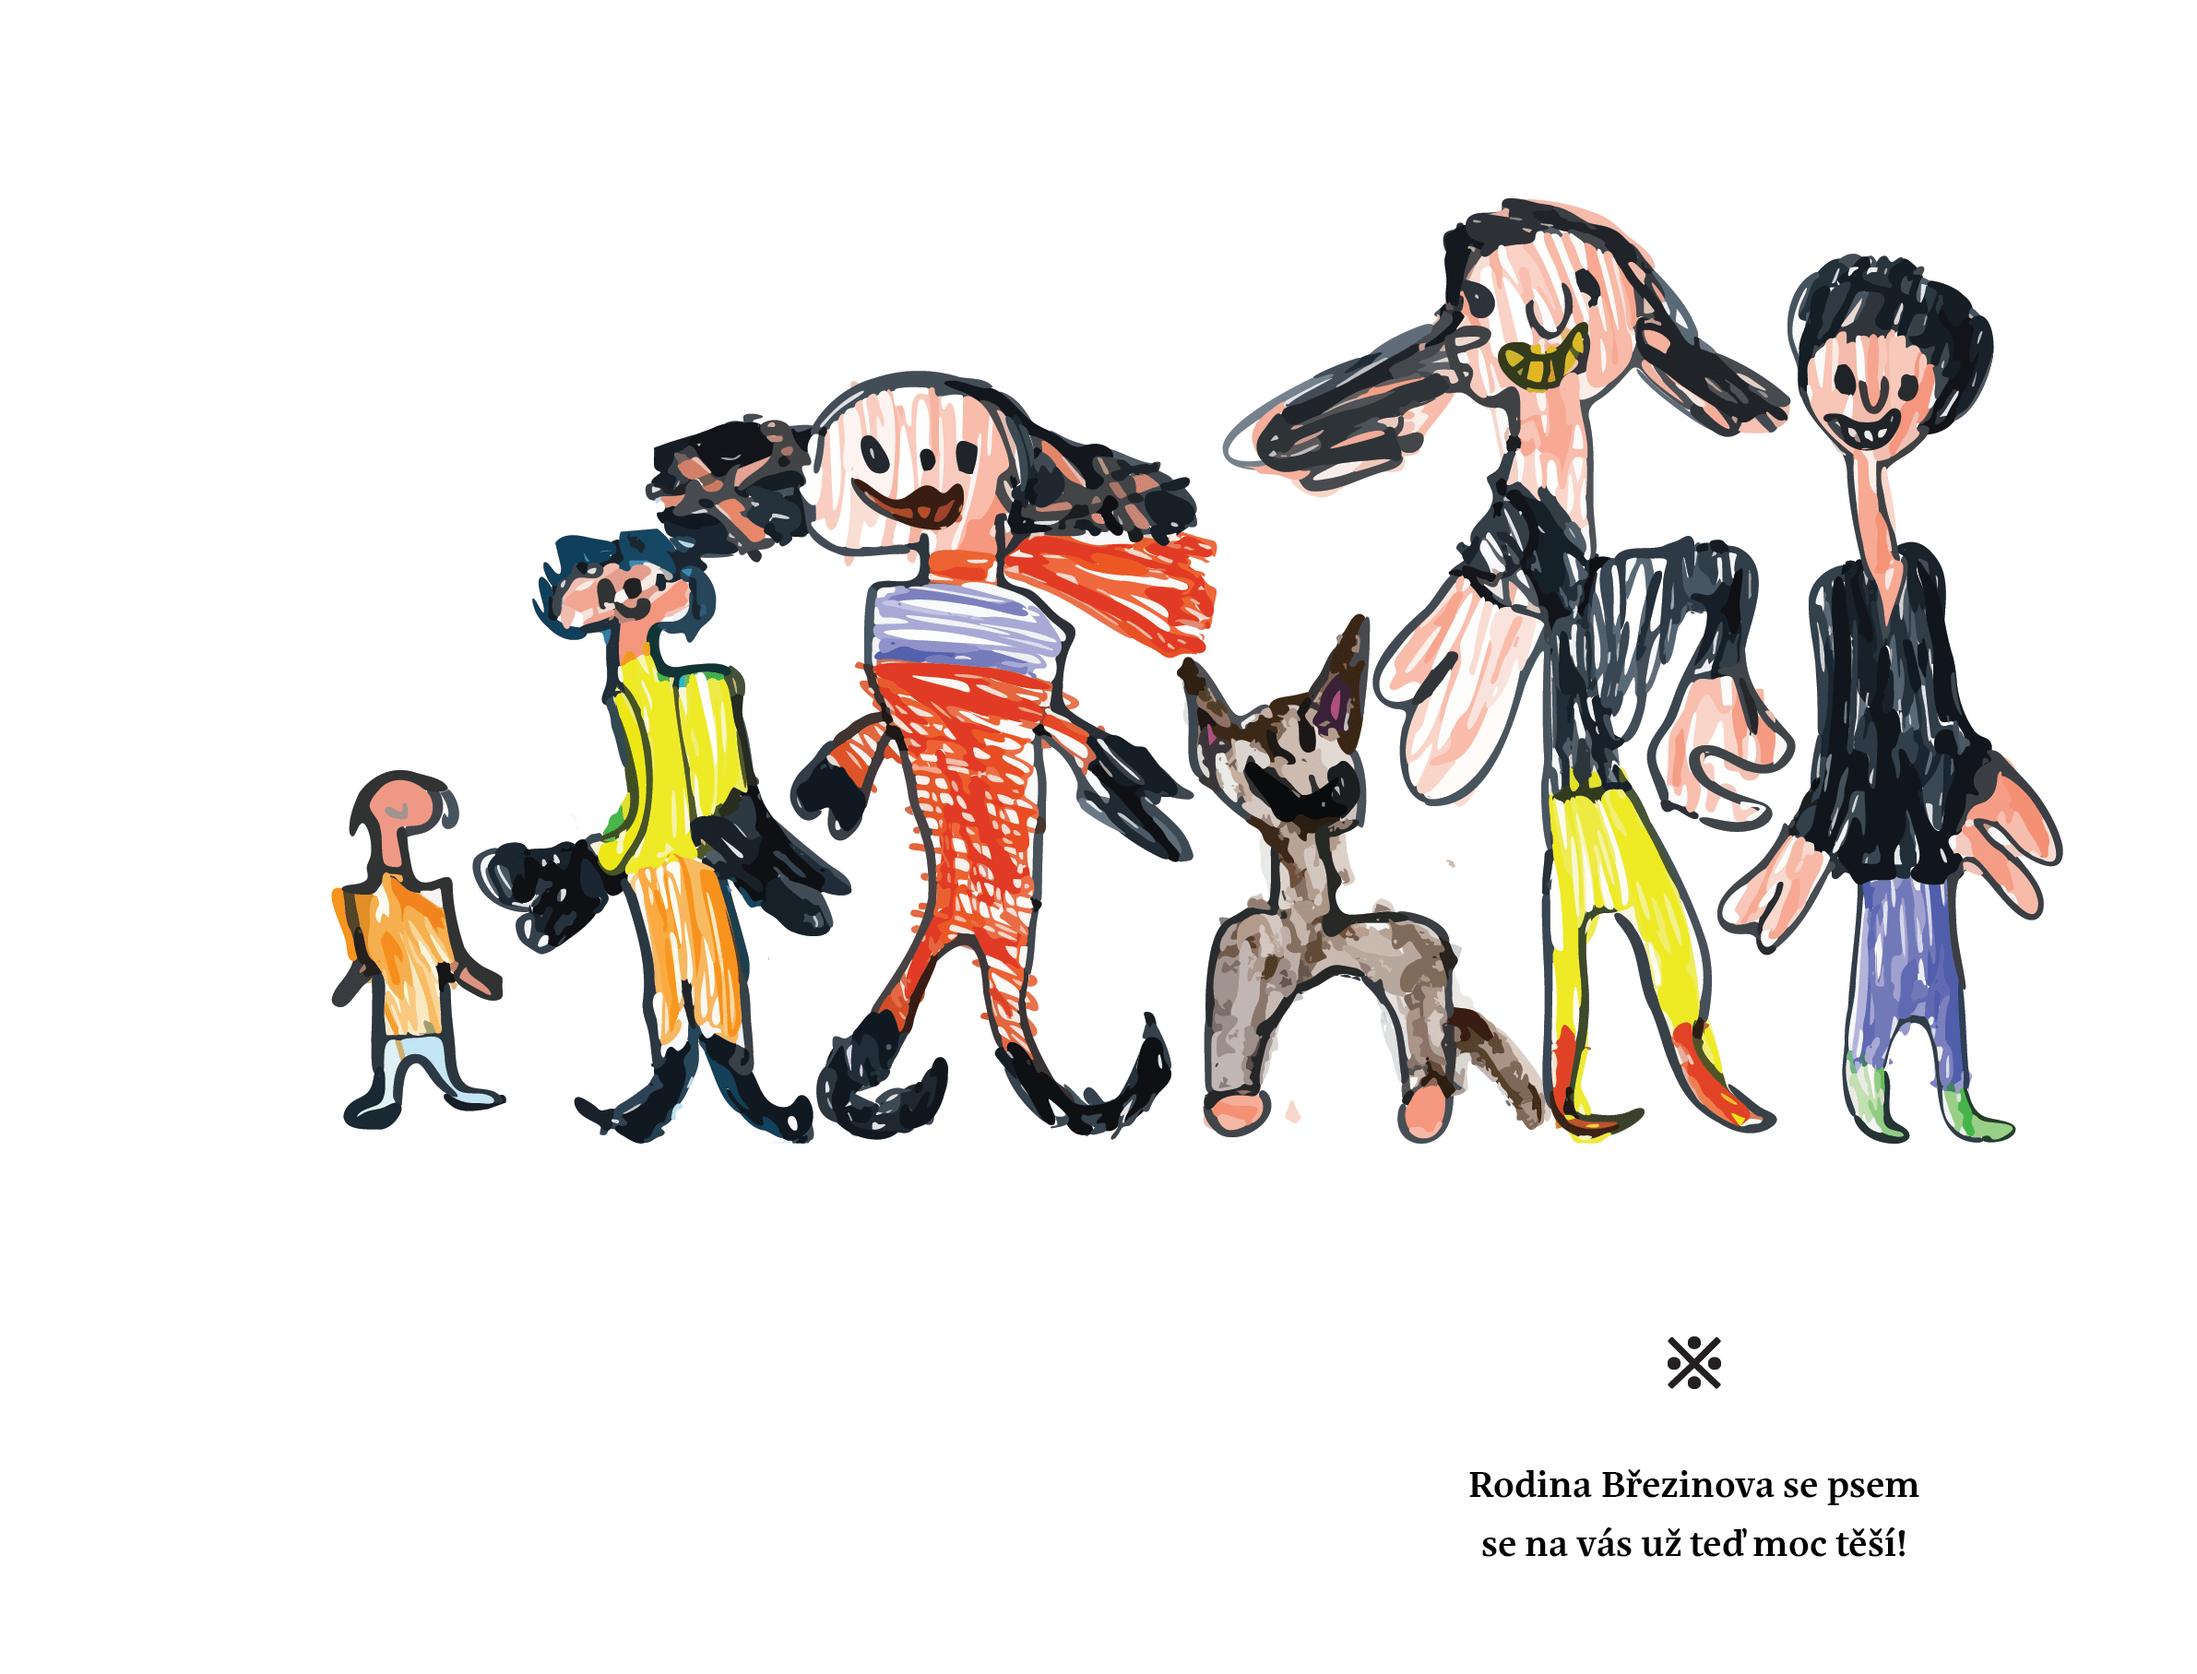
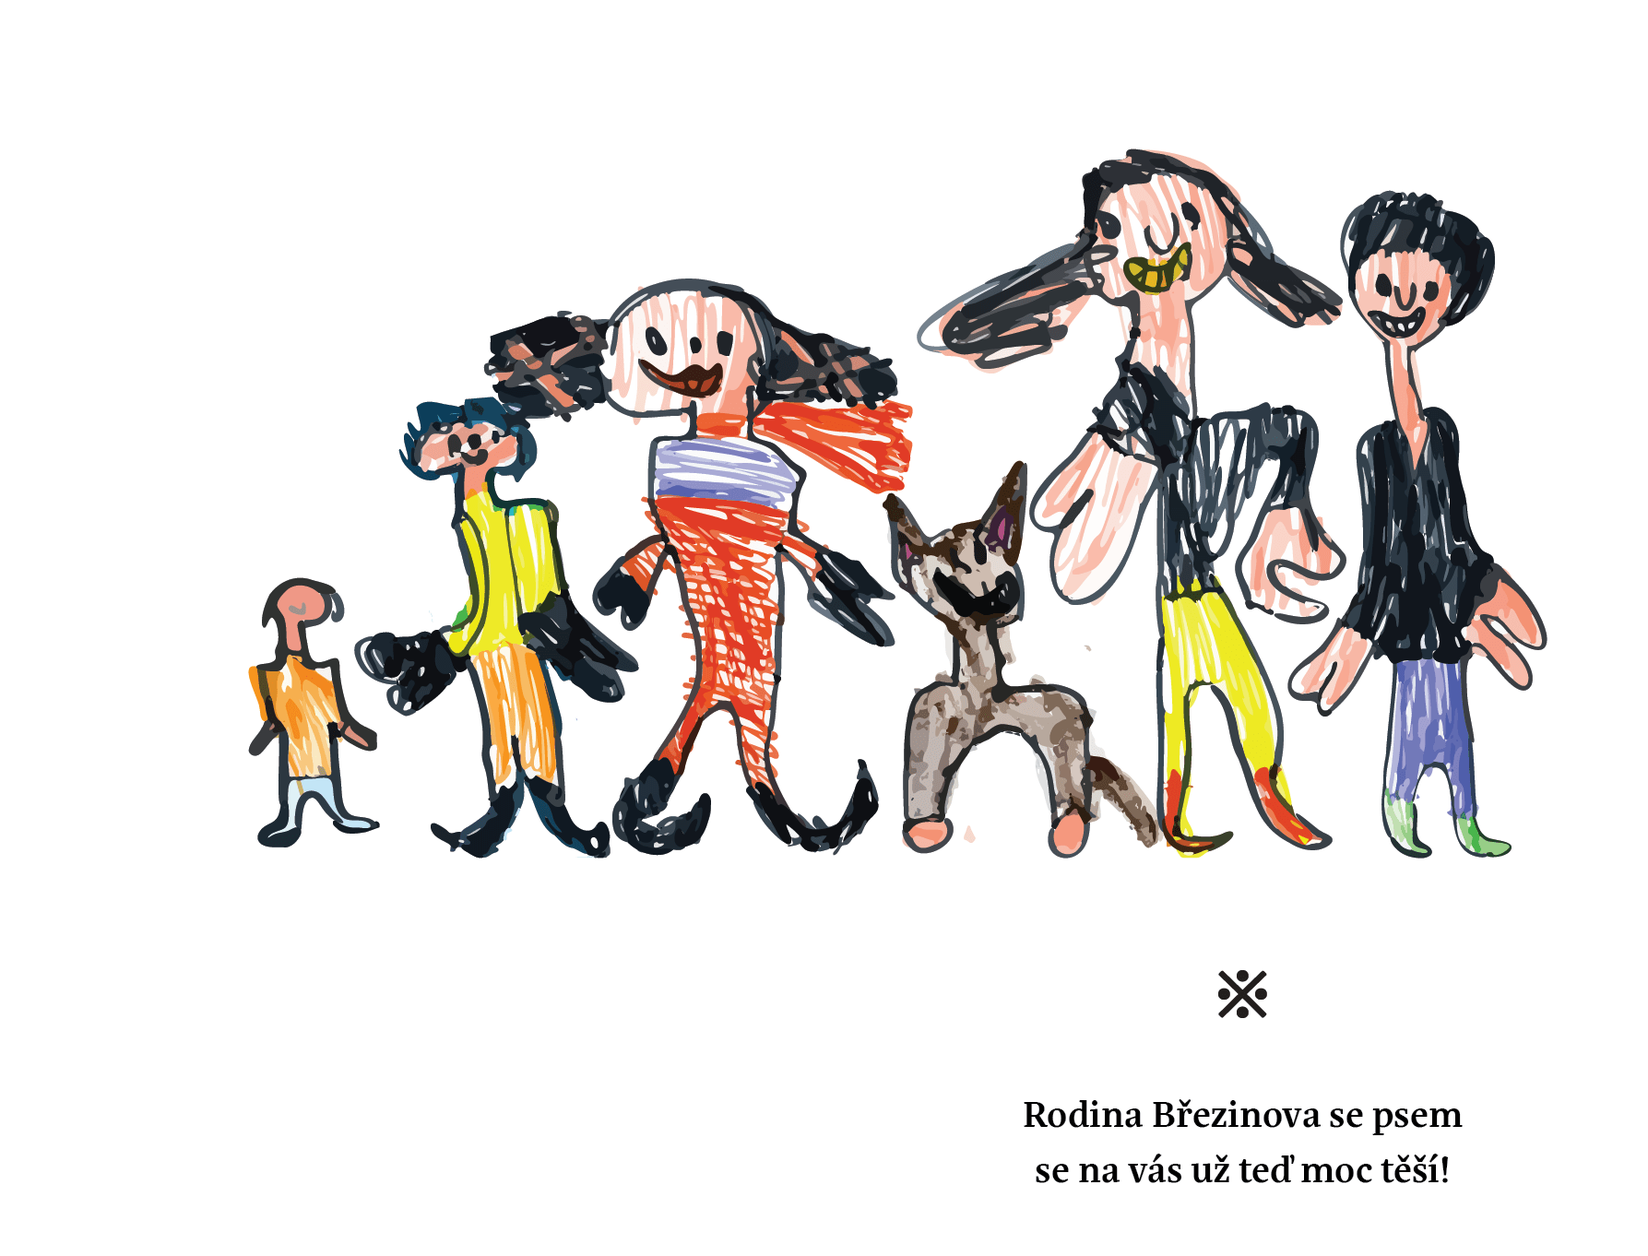
Fixed scrolling, revised alignment, colours and font sizes

diff --git a/assets/styles.css b/assets/styles.css
@@ -1,19 +1,8 @@
-/* Adapter  PE from Rosetta */
-
-@supports (font-variation-settings: initial) {
-  @font-face {
-      font-display: block;
-      font-family: "AdapterVF";
-      font-weight: 100 900;
-      font-style: normal;
-      src: url("https://webfonts.rosettatype.com/misc/AdapterPEVFWeb-All.woff2") format("woff2");
-  }
-}
-
 :root {
   --text: #000;
-  --link-color: rgb(83, 38, 174);
-  --light-link-color: rgba(83, 38, 174, 0.065);
+  --link-color: rgb(174, 38, 160);
+  --light-link-color: rgba(174, 38, 160, 0.065);
+  --hover-link-color: rgba(174, 38, 160, 0.85);
   --background: #FFF;
 }
 
@@ -29,16 +18,16 @@ html {
 body {
   margin: 0;
   padding: 0;
-  background: url(/assets/background.png) left top,  url(/assets/background.png) left bottom, var(--background);
-  background-repeat: no-repeat;
-  background-size: 100% auto;
-  background-attachment: fixed;
   font-family: "eskorte-latin", serif;
   color: var(--text);
   font-weight: 400;
   font-style: normal;
-  font-size: 24px;
+  font-size: 30px;
   line-height: 165%;
+  background: url(/assets/background.png) left bottom, var(--background);
+  background-repeat: no-repeat;
+  background-size: 100% auto;
+  background-attachment: fixed;
 }
 
 img {
@@ -48,16 +37,27 @@ img {
   display: block;
 }
 
+img#header {
+  background: url(/assets/background.png) left top, var(--background);
+  background-repeat: no-repeat;
+  background-size: 100% auto;
+  background-attachment: fixed;
+}
+
 section {
-  padding: 5em 8em 12em 8em;
+  padding: 5em 2em 12em 2em;
   margin: 0;
   background: var(--background);
+}
+
+section div {
+  max-width: 42em;
+  margin: 0 auto;
 }
 
 li, p, h1, h2, h3, h4, h5 {
   font-weight: 400;
   font-size: 100%;
-  max-width: 48em;
 }
 
 h1, h2, h3, h4 {
@@ -106,13 +106,21 @@ a:hover {
   text-decoration: underline;
 }
 
-a.button, a.button:hover {
+a.button {
   text-decoration: none;
   display: inline-block;
-  padding: 1em 2em;
+  padding: 0.5em 1.5em;
   color: var(--background);
   background-color: var(--link-color);
+  outline: 1px solid var(--link-color);
+  outline-offset: 3px;
+  margin: 1em 0;
+}
+
+a.button:hover {
   text-decoration: none;
+  background-color: var(--hover-link-color);
+  outline: 1px solid var(--hover-link-color);
 }
 
 .hide {
@@ -128,6 +136,6 @@ a.button, a.button:hover {
   }
 
   body {
-    font-size: 14px;
+    font-size: 20px;
   }
 }

diff --git a/_layouts/default.html b/_layouts/default.html
@@ -37,11 +37,13 @@
 </head>
 
 <body>
-  <img src="/assets/header.svg">
+  <img src="/assets/header.svg" id="header">
   <section>
-    {{ content }}
+    <div>
+      {{ content }}
+    </div>
   </section>
-  <img src="/assets/footer.svg">
-  <img src="/assets/background.png">
+  <img src="/assets/footer.svg" id="footer">
+  <img src="/assets/background.png" class="hide">
 </body>
 </html>
